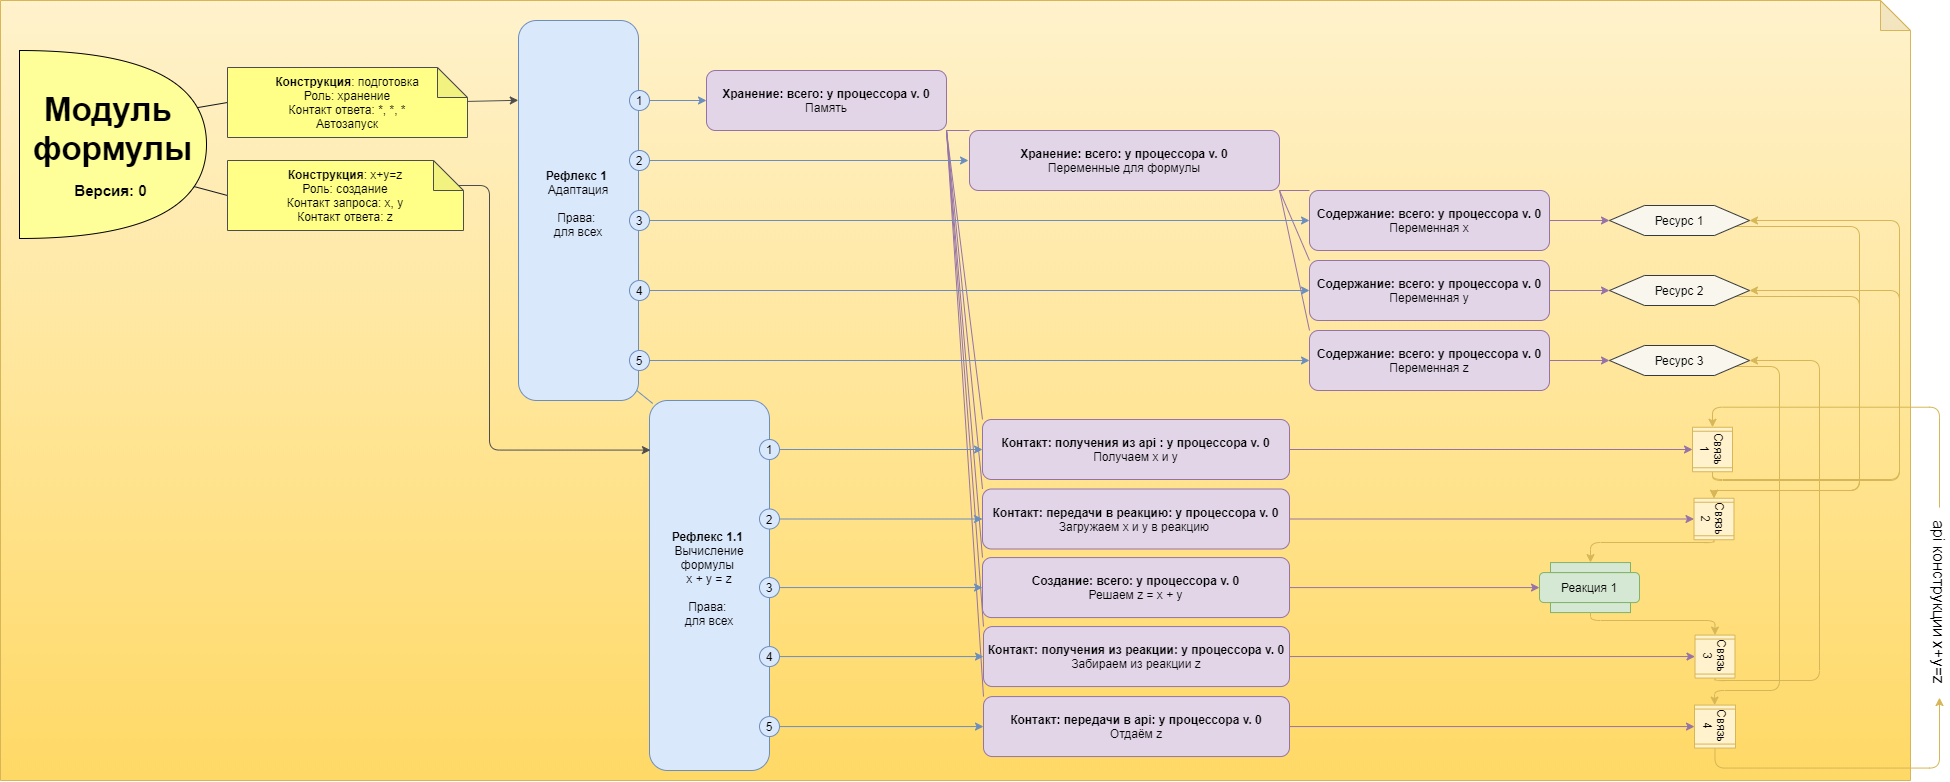
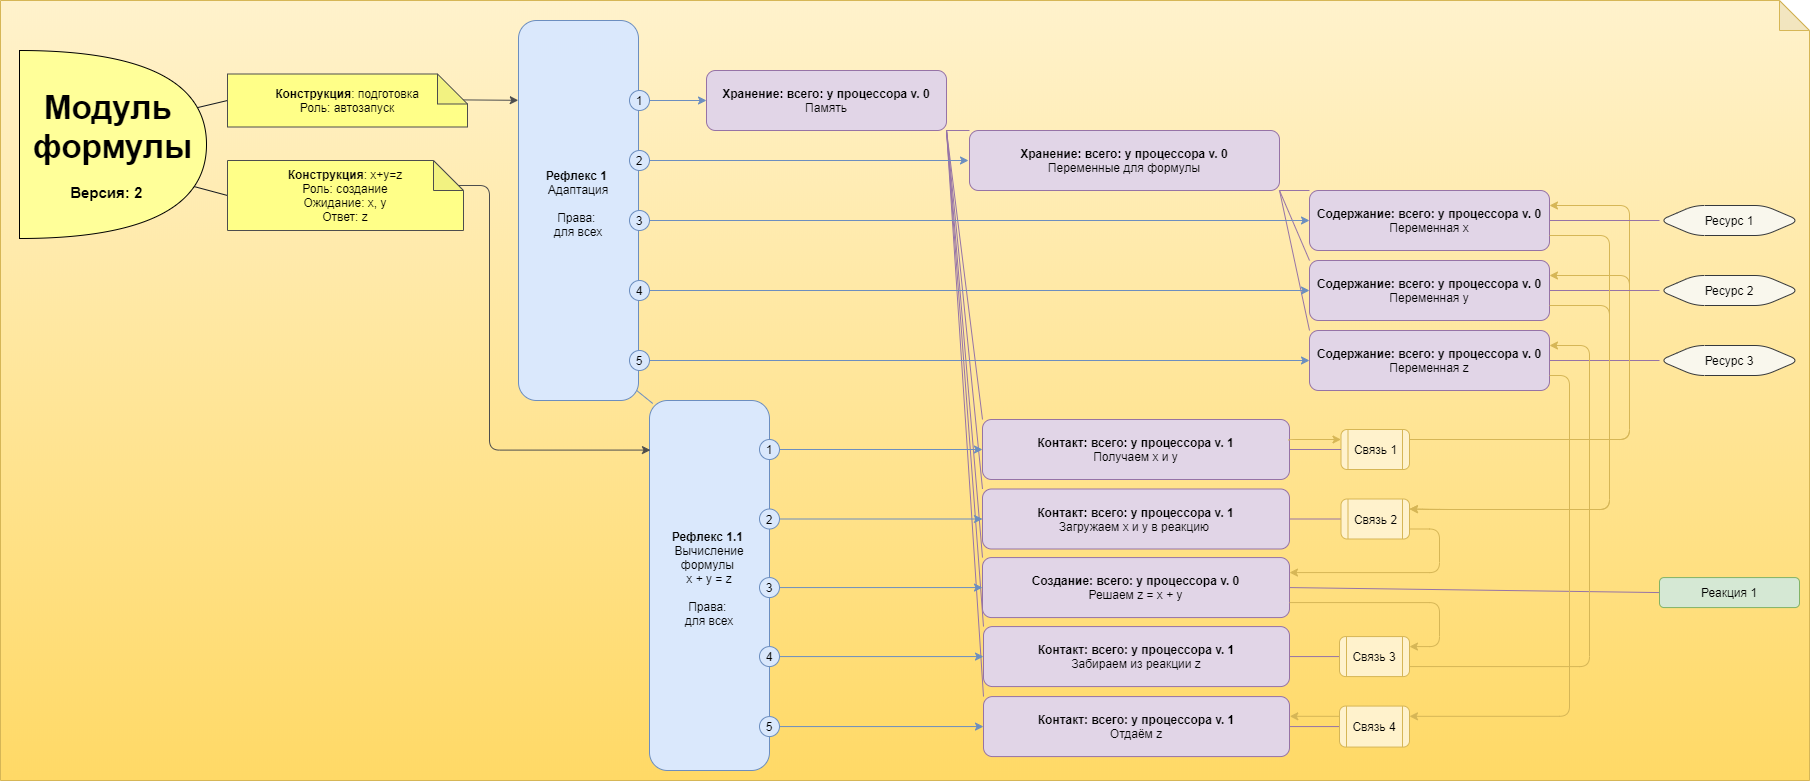
Api

Changed region(s): [[0.0, 0.0, 1.0, 1.0], [0.8663, 0.799, 0.8972, 0.9526], [0.2475, 0.5531, 0.2785, 0.5839]]

diff --git a/README.md b/README.md
@@ -151,7 +151,8 @@
 2. Назначение, где пожелание от замысла
 3. Предпочтение, где пожелание от данной конструкции
 4. Условия, где последовательные id рефлексов принадлежащих данной конструкции
-5. Api, где точки соприкосновения с конструкцией
+5. Ожидание, где api для взаимодействия с конструкцией
+6. Ответ, где api ответа от конструкции
 
 
 Для <b>рефлексов</b>:
@@ -159,7 +160,7 @@
 2. Расчёты, где устанавливается состав задач, обеспечивающих реализацию поставленных целей; уточняется характер взаимосвязи и их основные характеристики; определяются необходимые для решения задач функции обработки данных 
 3. Сценарий, где последовательные id мест принадлежащих данной рефлексии
 4. <a href="#Права">Права</a>
-5. Ожидание, где варианты ожидания получения прав со временем: нет, да 
+5. Отсрочка, где ожидание получения прав со временем: нет, да 
 6. Вложение, где подкатегории рефлексов
 
 
@@ -178,8 +179,8 @@
 
 Для <b>реакций</b>:
 1. Способность, где функция с алгоритмом
-2. Ресурсы, где место для размещения информации для функции
-3. Результат, где место для результата из функции
+2. Ожидание, где api для взаимодействия с функцией
+3. Ответ, где api ответа от функции
 
 
 Для <b>ресурсов</b>: 
@@ -187,24 +188,29 @@
 
 <h3>Роли</h3>
 
-Для того, чтобы конструкции были контактными между собой, были выявлены такие роли конструкций:
+Для того, чтобы конструкции были контактными между собой (api для мест), были выявлены такие роли конструкций:
 1. Хранение
 - позволяет для мест: вложение
-- api ответа: {допустимые модели}, {допустимые роли}, {допустимые конструкции}
+- ожидание: нет
+- ответ: {допустимые модели}, {допустимые роли}, {допустимые конструкции}
 2. Содержание
 - позволяет для мест: ресурсы
-- api запроса: {действие = активировать, получить, отдать}, {ресурс}
-- api ответа: {ресурс}
+- ожидание: {действие = активировать, получить, отдать}, {ресурс}
+- ответ: {ресурс} | нет
 3. Создание
 - позволяет для мест: реакции
-- api запроса: {переменные с ресурсами}
-- api ответа: {переменные с ресурсами}
+- ожидание: {переменные с ресурсами}
+- ответ: {переменные с ресурсами}
 4. Контакт
 - позволяет для мест: связи
-- api запроса: {переменные откуда в куда}
+- ожидание: {переменные откуда в куда}
+- ответ: нет
 5. Автозапуск
+- не применим для использования в местах
 - запускается вначале при каждом запуске других конструкций
-- позволяет для мест: не применим
+6. Автозавершение
+- не применим для использования в местах
+- запускается после отработки конструкций
 
 <h3>Примение</h3>
 
@@ -258,18 +264,18 @@
 
 1. **[по запросу: информация о рефлексе] [входящее: {id рефлекса}]** получение {тип рефлекса}, {алгоритм права}, {сценарий ролей}, {id вложенных рефлексов} в рефлексах
 2. **[по запросу: проверка прав] [входящее: {алгоритм права}]** проверка успешного выполнения алгоритма права для мест
-3. **[по запросу: память ожидания прав] [входящее: {запрос = добавить, проверить, удалить, получить всё}, {id ожидающего рефлекса}]** добавление {id рефлекса}, {алгоритм права} / получить всё {массива ожидания прав} / проверить / удаление в массиве "ожидания прав" у процессора
-4. **[по запросу: проверка прав у ожидающих рефлексов]** запрос "*память ожидания прав: получить всё*"
-    1. **[есть массив ожидания прав] [цикл]** последовательный запрос "*проверка прав*" по {массива ожидания прав}
+3. **[по запросу: память отсрочки прав] [входящее: {запрос = добавить, проверить, удалить, получить всё}, {id ожидающего рефлекса}]** добавление {id рефлекса}, {алгоритм права} / получить всё {массива отсрочки прав} / проверить / удаление в массиве "отсрочки прав" у процессора
+4. **[по запросу: проверка прав у ожидающих рефлексов]** запрос "*память отсрочки прав: получить всё*"
+    1. **[есть массив отсрочки прав] [цикл]** последовательный запрос "*проверка прав*" по {массива отсрочки прав}
         1. **[есть права]** запрос "*активация рефлекса*" с {id ожидающего рефлекса}
 5. **[по запросу: информация о месте] [входящее: {id места}]** получение {тип места}, {команда}, {id реакции}, {id связи} в местах
-6. **[по запросу: информация о реакции] [входящее: {id реакции}]** получение {тип реакции}, {обозначение роли}, {функция реакции}, {начальные данные}, {результативные данные}
+6. **[по запросу: информация о реакции] [входящее: {id реакции}]** получение {тип реакции}, {обозначение роли}, {функция реакции}, {ожидание}, {ответ}
 7. **[по запросу: информация о связи] [входящее: {id связи}]** получение {тип связи}, {массив возможностей} в связях
 8. **[по запросу: активация рефлекса] [входящее: {id рефлекса}]** запрос "*информация о рефлексе*"
     1. запрос "*проверка прав*"
-    2. **[есть тип ожидание прав единожды / множественно]** запрос "*память ожидания прав: проверить*"
-       1. **[нет наличия в массиве ожидания прав]** запрос "*память ожидания прав: добавить*"
-       2. **[есть наличие в массиве ожидания прав] [есть права] [есть тип ожидание прав единожды]** запрос "*память ожидания прав: удалить*"
+    2. **[есть тип отсрочка прав единожды / множественно]** запрос "*память отсрочки прав: проверить*"
+       1. **[нет наличия в массиве отсрочки прав]** запрос "*память отсрочки прав: добавить*"
+       2. **[есть наличие в массиве отсрочки прав] [есть права] [есть тип отсрочка прав единожды]** запрос "*память отсрочки прав: удалить*"
     3. **[есть права] [цикл]** последовательный запрос "*информация о месте*" у мест из {сценарий ролей}
        1. **[ориентация  = контакт]** запрос "*информация о связи*"
             1. запрос "*активация процессора*" с {параметры = массив возможностей}
